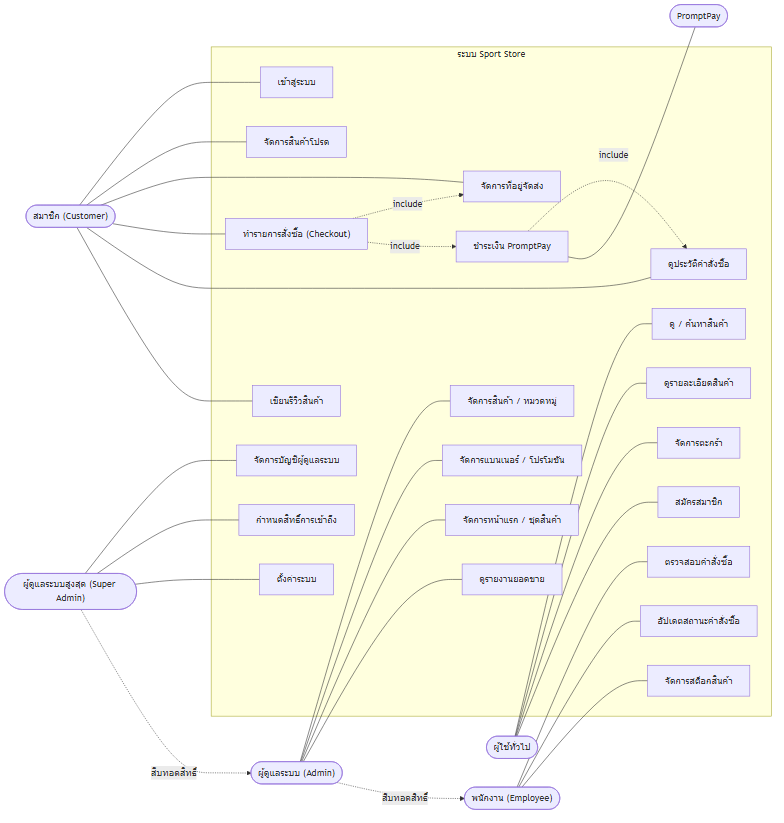
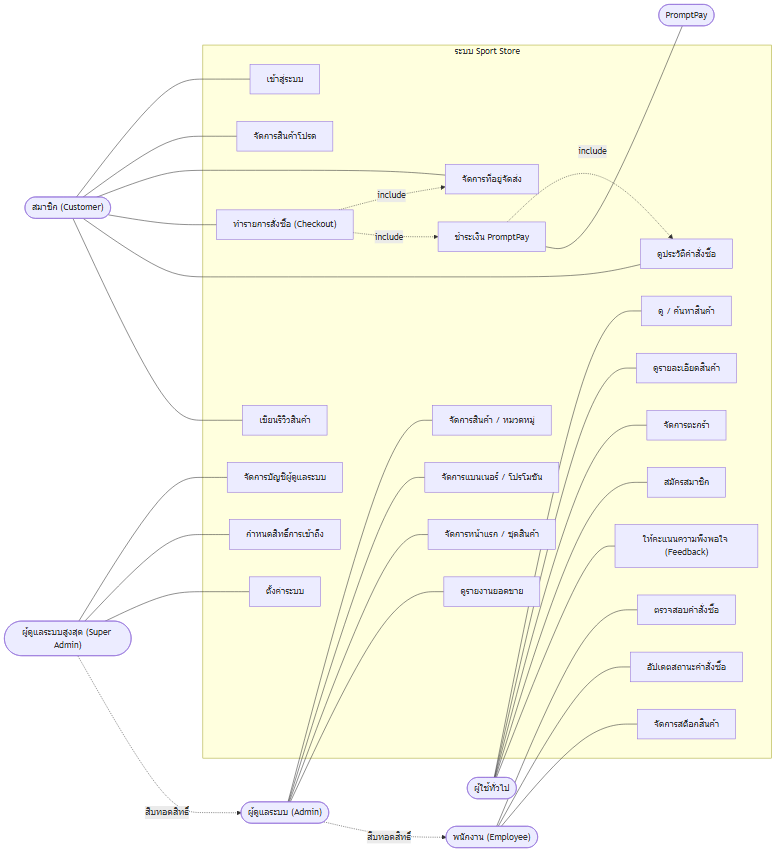
docs: add Feedback use case/class and missing config classes
Gap audit findings fixed:
- Add Feedback to use case (UC22) and class diagram (UI-only, no API/table)
- Add SiteConfig, CategoryShortcut, ProductView classes (tables exist in DB
  but were only hidden as methods)
- Add 4 UAT cases: browse by category, edit/remove cart item, write review,
  submit feedback (UAT now 23 cases)
- Note in README that Feedback is frontend UI only

diff --git a/docs/usecase.html b/docs/usecase.html
@@ -39,6 +39,7 @@ const UC=[
  {t:"ชำระเงิน PromptPay",x:colX[2],y:246,g:"c",id:"pay"},
  {t:"ดูประวัติคำสั่งซื้อ",x:colX[0],y:294,g:"c"},
  {t:"เขียนรีวิวสินค้า",x:colX[1],y:294,g:"c"},
+ {t:"ให้คะแนนความพึงพอใจ",x:colX[2],y:294,g:"c"},
 
  {t:"ตรวจสอบคำสั่งซื้อ",x:colX[0],y:362,g:"e"},
  {t:"อัปเดตสถานะคำสั่งซื้อ",x:colX[1],y:362,g:"e"},

diff --git a/README.md b/README.md
@@ -187,6 +187,7 @@ Wireframe / Prototype เปิดดูได้ที่ [`docs/wireframes.htm
 > **บทบาทผู้ใช้ในระบบ:** `customer` · `employee` · `admin` (ตาม `profiles.role` ในฐานข้อมูล) และ `super_admin` (อยู่ระหว่างเพิ่มใน schema)
 > ส่วนที่กำกับว่า **planned** คือออกแบบไว้แล้วแต่ยังไม่ได้ implement ฝั่ง backend (orders / addresses / payments / reviews API)
 > **สินค้าโปรด (Favorite)** ทำงานฝั่ง frontend ด้วย localStorage เท่านั้น ยังไม่มี API และตารางในฐานข้อมูล
+> **แบบประเมินความพึงพอใจ (Feedback)** เป็น UI อย่างเดียว ยังไม่ส่งข้อมูลไป backend และไม่บันทึกลงฐานข้อมูล
 
 ### 1. Use Case Diagram
 
@@ -221,12 +222,14 @@ flowchart LR
         UC19["จัดการบัญชีผู้ดูแลระบบ"]
         UC20["กำหนดสิทธิ์การเข้าถึง"]
         UC21["ตั้งค่าระบบ"]
+        UC22["ให้คะแนนความพึงพอใจ (Feedback)"]
     end
 
     Guest --- UC1
     Guest --- UC2
     Guest --- UC3
     Guest --- UC4
+    Guest --- UC22
     Member --- UC5
     Member --- UC6
     Member --- UC7
@@ -530,6 +533,37 @@ classDiagram
         +getRecommendations()
         +getTrending()
     }
+    class ProductView {
+        +uuid id
+        +uuid user_id
+        +uuid product_id
+        +datetime viewed_at
+    }
+    class CategoryShortcut {
+        +uuid id
+        +string label
+        +string image
+        +string link
+        +int sort_order
+        +getAllShortcuts()
+        +createShortcut()
+        +updateShortcut()
+        +deleteShortcut()
+    }
+    class SiteConfig {
+        +string key
+        +string value
+        +getConfig()
+        +getAllConfig()
+        +updateConfig()
+        +deleteConfig()
+    }
+    class Feedback {
+        +int rating
+        +string purpose
+        +bool achieved
+        +submitFeedback()
+    }
 
     User <|-- Customer
     User <|-- Employee
@@ -564,6 +598,9 @@ classDiagram
 
     HomepageSection "1" --> "*" Product
     Recommendation ..> Product : แนะนำ
+    Recommendation "1" --> "*" ProductView
+    Product "1" --> "*" ProductView
+    Customer ..> Feedback : ส่งแบบประเมิน
 ```
 
 ### 3. Sequence Diagram